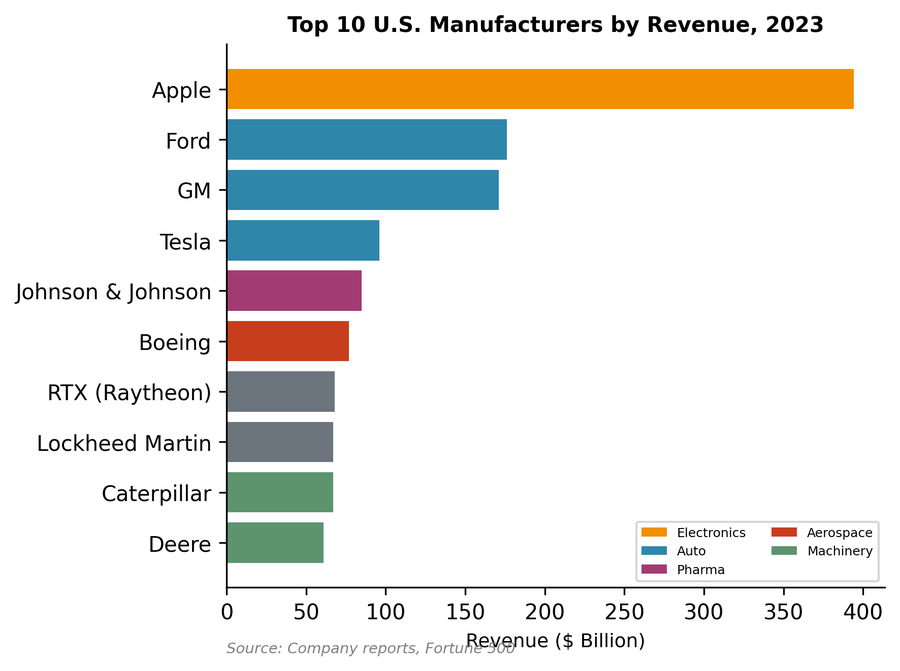
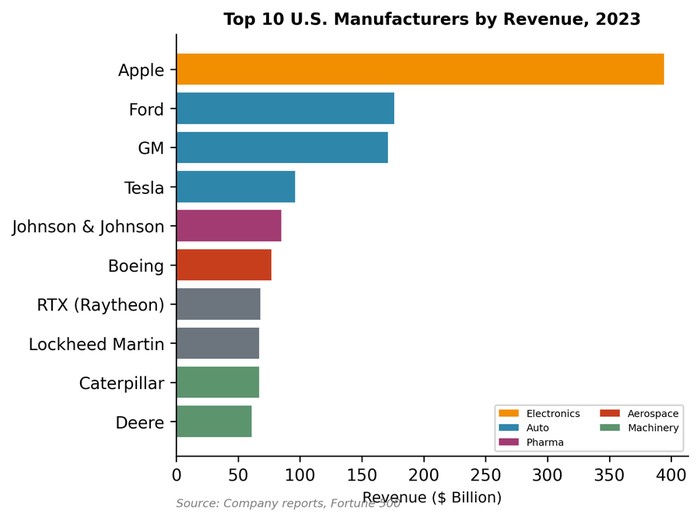
Ch9: Resize fig 9.3, expand Apple/China manufacturing discussion
- Resized top_manufacturers figure from 900px to 700px
- Added context on Apple's China dependence, citing McGee's
  "Apple in China" (2025) on Foxconn Zhengzhou facility

diff --git a/book/part2/ch09-manufacturing.md b/book/part2/ch09-manufacturing.md
@@ -88,7 +88,7 @@ The largest American manufacturers by revenue (excluding pure energy companies):
 ![Top manufacturers by revenue](../../_figures/ch09/ch09_top_manufacturers.png)
 *Figure 9.3: Top U.S. manufacturers by revenue. Apple leads by a wide margin, though its manufacturing is contracted out. Source: Company data (2023)*
 
-Apple's position at the top illustrates manufacturing's complexity: the company designs products in California and captures enormous value through brand, design, and software, but contracts virtually all physical manufacturing to Asian suppliers. Whether Apple is a "manufacturer" depends on definition.
+Apple's position at the top illustrates manufacturing's complexity: the company designs products in California and captures enormous value through brand, design, and software, but contracts virtually all physical manufacturing to suppliers in China. As Patrick McGee documents in *Apple in China* (2025), this arrangement reflects deliberate strategic choices over decades. Foxconn's Zhengzhou facility alone employs over 200,000 workers assembling iPhones—a workforce concentration that would be impossible to replicate in the United States given labor costs, supply chain proximity, and the sheer density of component suppliers within a few hours' drive. Apple's China dependence has become a geopolitical vulnerability, prompting modest diversification toward India and Vietnam, but China remains the center of gravity for iPhone production. Whether Apple is a "manufacturer" depends on definition—it captures the lion's share of value while owning none of the factories.
 
 ## Geographic Distribution
 
